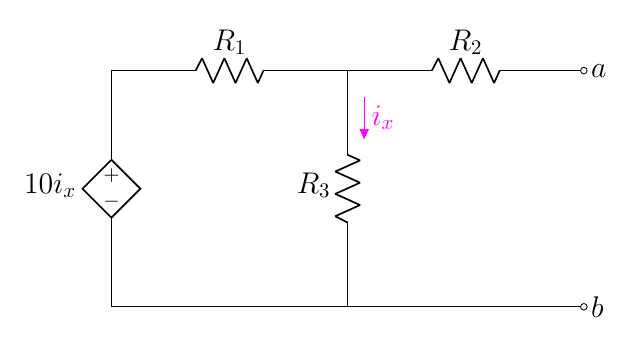
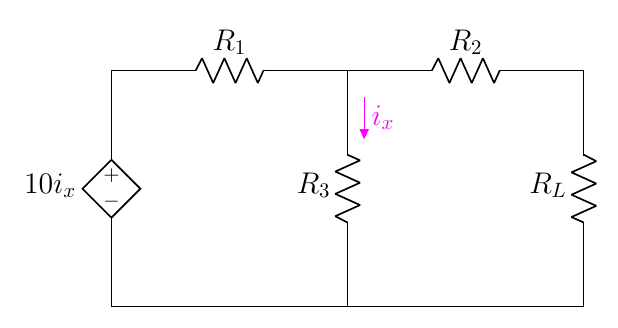
edit 4.64

Changed region(s): [[0.0307, 0.061, 0.9531, 0.9451], [0.8608, 0.4573, 0.9838, 0.7012]]

diff --git a/1.8 Thevinin and Norton/4.5-4.6 Thevenin Norton/4.64(new).tex b/1.8 Thevinin and Norton/4.5-4.6 Thevenin Norton/4.64(new).tex
@@ -3,13 +3,14 @@
 \begin{circuitikz}[american,cute inductors]
     \input{../../preamble2.tex}
 
-    \draw(0,0) node[anchor=west]{$b$}
-        to[short,o-] ++(-8,0)
+    \draw(0,0)
+        to[short] ++(-8,0)
         to[american controlled voltage source,l=$10i_x$] ++(0,4) 
         to[R,l=\rname{1}] ++(4,0) ++(0,-4) 
         to[R,l=\rname{3}] ++(0,4)
         to[R,l=\rname{2}] ++(4,0)
-        to[short,-o] ++(0,0) node[anchor=west]{$a$};
+        to[short] ++(0,0)
+        to[R,l_=\rname{L}] (0,0);
 
     %%% find %%%
     % node[anchor=west]{$a$}
